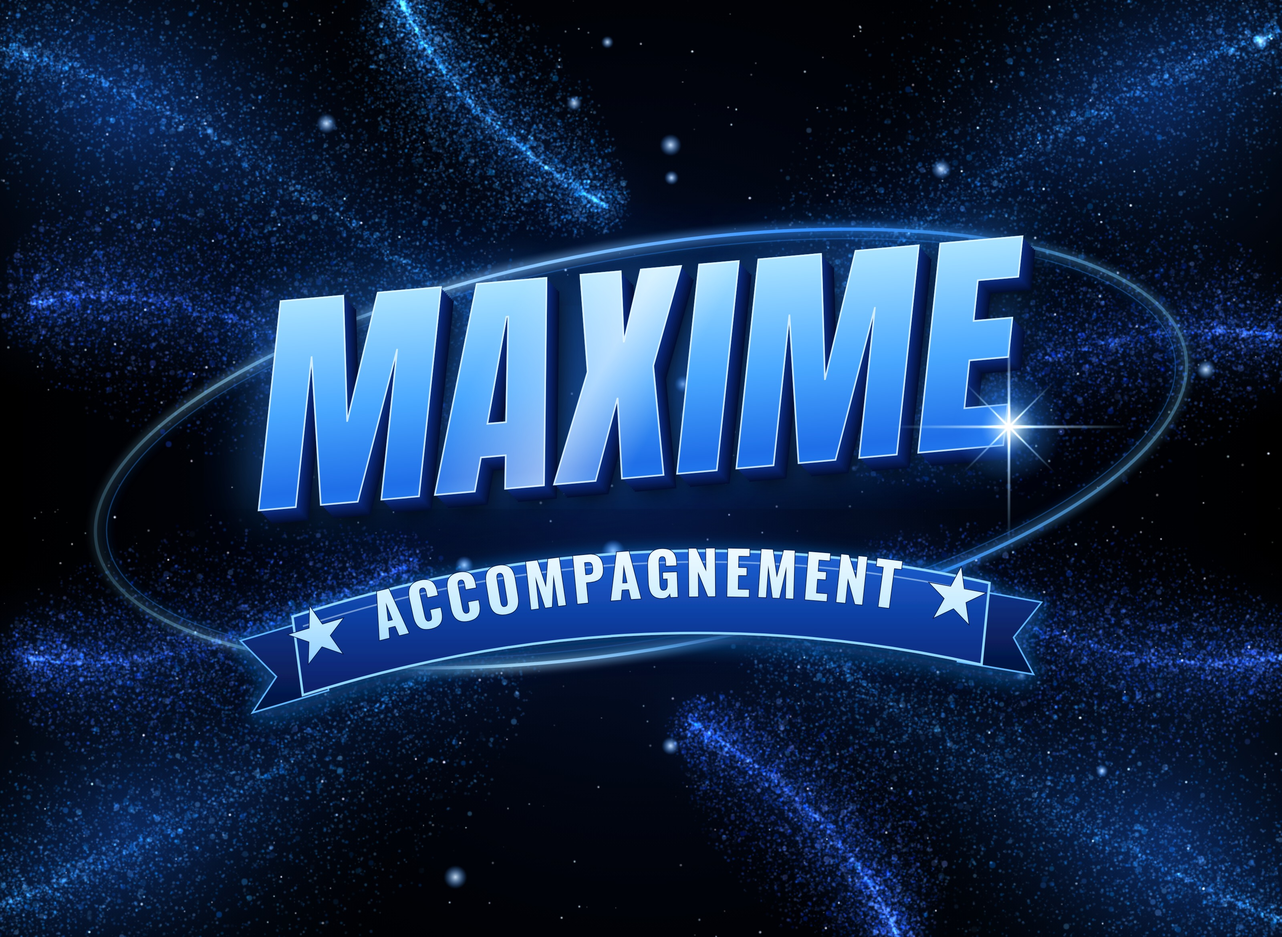
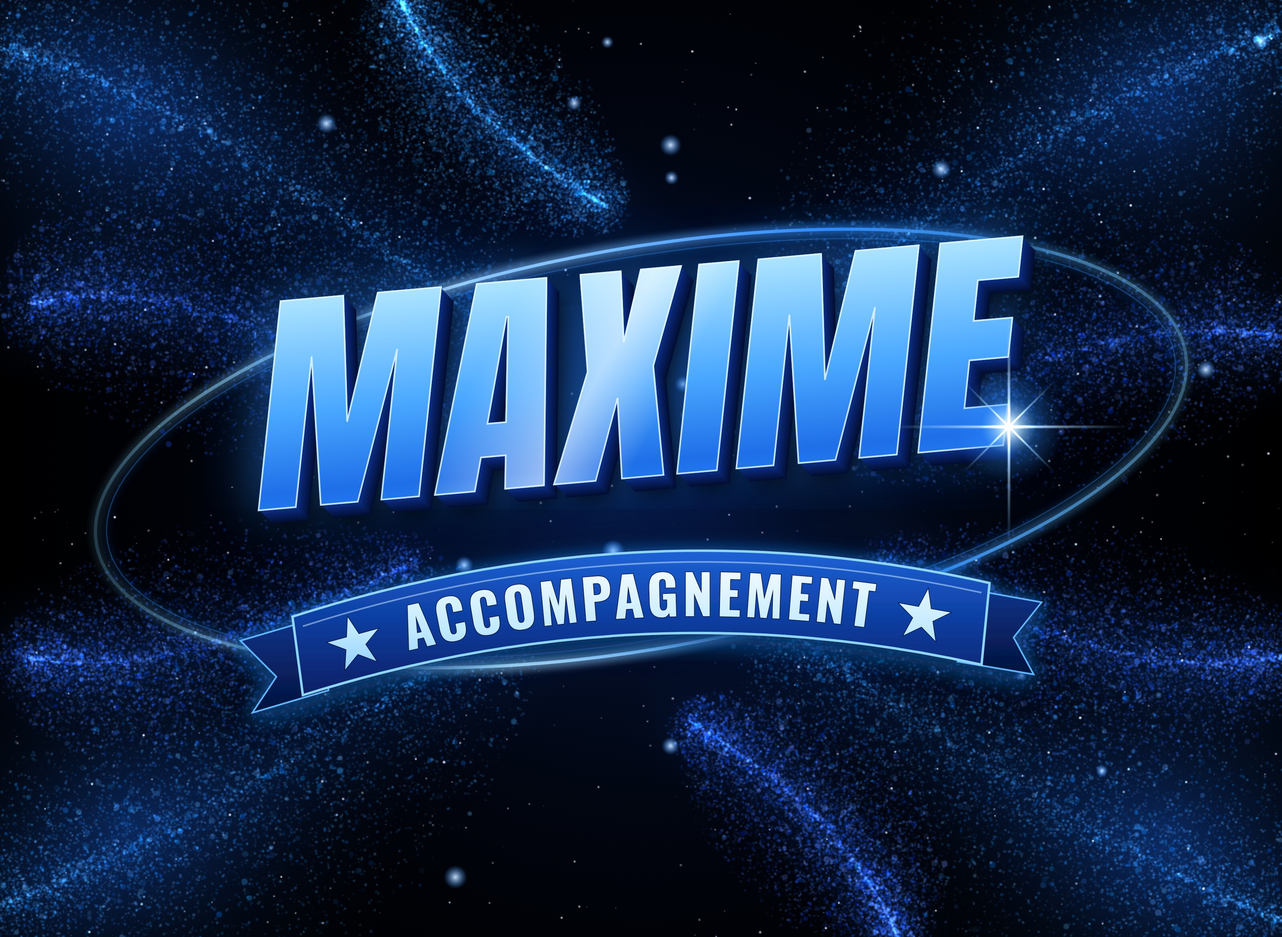
Center ribbon text on the cover
Claude-Session: https://claude.ai/code/session_016xSTBweB1gz5eaMW4XnnyY

Changed region(s): [[0.2188, 0.5615, 0.7812, 0.7175]]

diff --git a/produits/accompagnement/cover/cover.html b/produits/accompagnement/cover/cover.html
@@ -96,7 +96,7 @@
         <stop offset=".6" stop-color="#bfe9ff"/>
         <stop offset="1" stop-color="#7fc4ff"/>
       </linearGradient>
-      <path id="ribPath" d="M 370 830 Q 800 690 1230 780"/>
+      <path id="ribPath" d="M 371.5 819 Q 800 682.5 1230 779"/>
       <filter id="soft" x="-10%" y="-30%" width="120%" height="160%">
         <feDropShadow dx="0" dy="10" stdDeviation="12" flood-color="#000" flood-opacity=".8"/>
         <feDropShadow dx="0" dy="0" stdDeviation="10" flood-color="#2f8cff" flood-opacity=".55"/>
@@ -111,9 +111,9 @@
             fill="url(#ribG)" stroke="#8fd6ff" stroke-width="3"/>
       <path d="M 378 782 Q 800 646 1225 740" fill="none" stroke="#cfeeff" stroke-opacity=".5" stroke-width="2"/>
     </g>
-    <text font-family="Oswald" font-weight="700" font-size="74" letter-spacing="6" fill="url(#txtG)"
+    <text id="ribText" font-family="Oswald" font-weight="700" font-size="68" letter-spacing="5" fill="url(#txtG)"
           stroke="#04123d" stroke-width="1.5" paint-order="stroke">
-      <textPath href="#ribPath" startOffset="50%" text-anchor="middle">★  ACCOMPAGNEMENT  ★</textPath>
+      <textPath href="#ribPath" startOffset="50%" text-anchor="middle" dominant-baseline="central">★  ACCOMPAGNEMENT  ★</textPath>
     </text>
   </svg>
 
